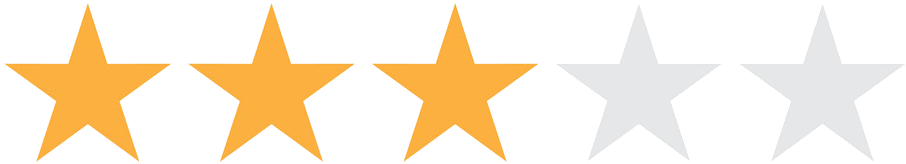
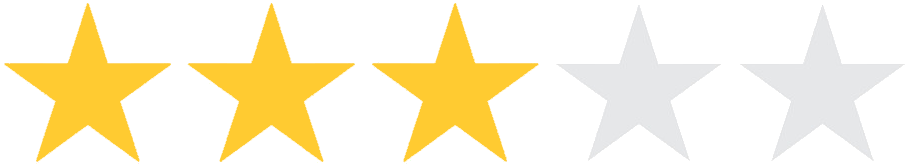
Add movie details page

Changed region(s): [[0.0, 0.0305, 0.5872, 0.9756]]

diff --git a/src/pages/movie-details/movie-details.js b/src/pages/movie-details/movie-details.js
@@ -1,0 +1,80 @@
+import React from "react";
+import "./movie-details.scss";
+import returnIcon from "../../shared/images/return-icon.png";
+import starIcon from "../../shared/images/star.png";
+import { Link } from "react-router-dom";
+import { HOME_ROUTE } from "../../shared/constants/routes";
+
+class MovieDetailsPage extends React.Component {
+  getMovieGenre(movieGenres) {
+    return movieGenres.map(genre => <div>{genre}</div>);
+  }
+
+  render() {
+    const MOVIE = JSON.parse(
+      '{"Title":"Raging Bull","Year":"1980","Rated":"R","Released":"19 Dec 1980","Runtime":"129 min","Genre":"Biography, Drama, Sport","Director":"Martin Scorsese","Writer":"Jake LaMotta (based on the book by), Joseph Carter (with), Peter Savage (with), Paul Schrader (screenplay), Mardik Martin (screenplay)","Actors":"Robert De Niro, Cathy Moriarty, Joe Pesci, Frank Vincent","Plot":"The life of boxer Jake LaMotta, whose violence and temper that led him to the top in the ring destroyed his life outside of it.","Language":"English","Country":"USA","Awards":"Won 2 Oscars. Another 22 wins & 26 nominations.","Poster":"https://m.media-amazon.com/images/M/MV5BYjRmODkzNDItMTNhNi00YjJlLTg0ZjAtODlhZTM0YzgzYThlXkEyXkFqcGdeQXVyNzQ1ODk3MTQ@._V1_SX300.jpg","Ratings":[{"Source":"Internet Movie Database","Value":"8.2/10"},{"Source":"Rotten Tomatoes","Value":"94%"},{"Source":"Metacritic","Value":"89/100"}],"Metascore":"89","imdbRating":"8.2","imdbVotes":"296,838","imdbID":"tt0081398","Type":"movie","DVD":"01 Aug 2000","BoxOffice":"N/A","Production":"United Artists","Website":"N/A","Response":"True"}'
+    );
+
+    const movieGenres = MOVIE.Genre.split(",");
+
+    return (
+      <div id="movie-details-page">
+        <div className="movie-details__header">
+          <Link to={HOME_ROUTE}>
+            <img src={returnIcon} alt="return icon" />
+          </Link>
+        </div>
+
+        <div className="movie-details__info">
+          <div className="movie-details__img">
+            <img src={MOVIE.Poster} alt={MOVIE.Title} />
+          </div>
+
+          <div className="movie-details__text">
+            <h2>{MOVIE.Title}</h2>
+
+            <div className="movie-details__text__IMDBRating">
+              <img src={starIcon} alt="star icon" />
+              <span className="movie-details__text--rating">
+                {MOVIE.imdbRating}
+              </span>
+              / 10
+            </div>
+
+            <div className="movie-details__text__genre">
+              {this.getMovieGenre(movieGenres)}
+            </div>
+
+            <p>
+              Année de sortie:
+              <span className="movie-details__text--bold">{MOVIE.Year}</span>
+              <br></br>
+              De:
+              <span className="movie-details__text--bold">
+                {MOVIE.Director}
+              </span>
+              <br></br>
+              Avec:
+              <span className="movie-details__text--bold">{MOVIE.Actors}</span>
+              <br></br>
+              Pays:
+              <span className="movie-details__text--bold">{MOVIE.Country}</span>
+              <br></br>
+              Durée:
+              <span className="movie-details__text--bold">{MOVIE.Runtime}</span>
+            </p>
+          </div>
+        </div>
+
+        <div className="movie-details__rating">Rate</div>
+
+        <div className="movie-details__synopsis">
+          <h2>Résumé</h2>
+          <p>{MOVIE.Plot}</p>
+        </div>
+      </div>
+    );
+  }
+}
+
+export default MovieDetailsPage;

diff --git a/src/pages/movie-details/movie-details.scss b/src/pages/movie-details/movie-details.scss
@@ -1,0 +1,95 @@
+@import "../../shared/style/variables.scss";
+
+#movie-details-page {
+  background: linear-gradient(
+    to right,
+    $dark-theme-background-gradient-start,
+    $dark-theme-background-gradient-end
+  );
+  padding: 20px;
+
+  h2 {
+    margin: 0;
+    color: white;
+    font-weight: 600;
+  }
+
+  .movie-details__header {
+    width: 100%;
+
+    img {
+      width: 20px;
+      height: 20px;
+
+      &:hover {
+        cursor: pointer;
+      }
+    }
+  }
+
+  .movie-details__info {
+    display: flex;
+    align-items: center;
+
+    .movie-details__img img {
+      width: 120px;
+    }
+
+    .movie-details__text {
+      padding: 20px 0 20px 20px;
+      color: $dark-theme-light-grey;
+      font-size: 13px;
+
+      &__IMDBRating {
+        color: $dark-theme-yellow;
+        img {
+          width: 13px;
+          height: 13px;
+          margin-right: 4px;
+        }
+      }
+
+      &__genre {
+        margin-top: 5px;
+
+        div {
+          display: inline-block;
+          height: 16px;
+          margin-bottom: 7px;
+          margin-right: 7px;
+          padding: 3px 10px;
+          border-radius: 5px;
+          background-color: $dark-theme-dark-grey;
+          color: $dark-theme-light-grey;
+          text-align: center;
+          font-size: 11px;
+          font-weight: 600;
+        }
+      }
+
+      p {
+        margin-top: 3px;
+      }
+
+      &--bold {
+        font-weight: 600;
+        margin-left: 5px;
+      }
+      &--rating {
+        font-weight: 600;
+        font-size: 17px;
+        margin-left: 5px;
+        margin-right: 5px;
+      }
+    }
+  }
+
+  .movie-details__synopsis {
+    color: #9099b1;
+
+    p {
+      margin-top: 5px;
+      font-size: 14px;
+    }
+  }
+}

diff --git a/src/pages/movies-watched/movies-watched.js b/src/pages/movies-watched/movies-watched.js
@@ -2,8 +2,10 @@ import React from "react";
 import "./movies-watched.scss";
 import Header from "../../components/header/header";
 import Footer from "../../components/footer/footer";
-import MovieViewed from "../../components/movie-rating/movie-rating";
+import MovieRating from "../../components/movie-rating/movie-rating";
 import SearchSuggestions from "../../components/search-suggestions/search-suggestions";
+import { MOVIE_DETAILS_ROUTE } from "../../shared/constants/routes";
+import { Link } from "react-router-dom";
 
 class MoviesWatchedPage extends React.Component {
   constructor(props) {
@@ -22,7 +24,9 @@ class MoviesWatchedPage extends React.Component {
     }
 
     const autocompleteSuggestions = this.state.searchSuggestions.map(movie => (
-      <SearchSuggestions movie={movie} key={movie.imdbID} />
+      <Link to={MOVIE_DETAILS_ROUTE + "/" + movie.imdbID}>
+        <SearchSuggestions movie={movie} key={movie.imdbID} />
+      </Link>
     ));
 
     return (
@@ -50,7 +54,7 @@ class MoviesWatchedPage extends React.Component {
     ];
 
     const moviesWatched = MOCKED_MOVIES_VIWED.map((movie, index) => (
-      <MovieViewed movie={movie} key={index} />
+      <MovieRating movie={movie} key={index} />
     ));
 
     return (

diff --git a/src/App.js b/src/App.js
@@ -1,15 +1,21 @@
 import React from "react";
 import "./App.scss";
+import { Route } from "react-router-dom";
 import MoviesWatchedPage from "./pages/movies-watched/movies-watched";
 import MovieToWatchPage from "./pages/movies-to-watch/movies-to-watch";
-import { Route } from "react-router-dom";
-import { HOME_ROUTE, MOVIES_TO_WATCH_ROUTE } from "./shared/constants/routes";
+import MovieDetailsPage from "./pages/movie-details/movie-details";
+import {
+  HOME_ROUTE,
+  MOVIES_TO_WATCH_ROUTE,
+  MOVIE_DETAILS_ROUTE
+} from "./shared/constants/routes";
 
 function App() {
   return (
     <div>
       <Route exact path={HOME_ROUTE} component={MoviesWatchedPage} />
       <Route path={MOVIES_TO_WATCH_ROUTE} component={MovieToWatchPage} />
+      <Route path={MOVIE_DETAILS_ROUTE} component={MovieDetailsPage} />
     </div>
   );
 }

diff --git a/src/pages/movies-watched/movies-watched.scss b/src/pages/movies-watched/movies-watched.scss
@@ -1,17 +1,21 @@
 @import "../../shared/style/variables.scss";
 
-body {
-  background-color: $dark-theme-dark-blue;
-}
-
 #movie-watched-page {
-  background-color: $dark-theme-dark-blue;
+  background: linear-gradient(
+    to right,
+    $dark-theme-background-gradient-start,
+    $dark-theme-background-gradient-end
+  );
 
   .search-suggestions-container {
     position: absolute;
     width: 100%;
     z-index: 2;
     background-color: white;
+
+    a {
+      text-decoration: none;
+    }
   }
 
   .movies-watched-container {

diff --git a/src/shared/style/variables.scss b/src/shared/style/variables.scss
@@ -1,9 +1,13 @@
+$dark-theme-background-gradient-start: #17213c;
+$dark-theme-background-gradient-end: #151522;
+
 $dark-theme-dark-blue: #212138;
 $dark-theme-medium-blue: #1e2747;
 $dark-theme-light-blue: #4c65a9;
-$dark-theme-dark-grey: #8b99a4;
-$dark-theme-medium-grey: #4f6b95;
-$dark-theme-light-grey: #ece9e4;
+$dark-theme-dark-grey: #313444;
+$dark-theme-medium-grey: #8b99a4;
+$dark-theme-light-grey: #c3c4c9;
 $dark-theme-orange: #c45e36;
+$dark-theme-yellow: #ffcb30;
 
 $header-height: 92px;

diff --git a/src/components/movie-rating/movie-rating.scss b/src/components/movie-rating/movie-rating.scss
@@ -43,8 +43,9 @@
       }
 
       &--bold {
-        font-weight: 800;
+        font-weight: 600;
         margin-left: 5px;
+        color: $dark-theme-light-grey;
       }
     }
 
@@ -69,7 +70,7 @@
 
       &--comment {
         font-size: 11px;
-        color: $dark-theme-medium-grey;
+        color: $dark-theme-light-grey;
       }
 
       .movie-watched__edition {

diff --git a/src/components/header/header.scss b/src/components/header/header.scss
@@ -7,7 +7,11 @@
   width: calc(100% - 20px);
   height: $header-height;
   padding: 10px 20px 0 20px;
-  background-color: $dark-theme-dark-blue;
+  background: linear-gradient(
+    to right,
+    $dark-theme-background-gradient-start,
+    $dark-theme-background-gradient-end
+  );
 
   &__title {
     display: block;

diff --git a/src/App.scss b/src/App.scss
@@ -1,3 +1,13 @@
+@import "./shared/style/variables.scss";
+
+body {
+  background: linear-gradient(
+    to right,
+    $dark-theme-background-gradient-start,
+    $dark-theme-background-gradient-end
+  );
+}
+
 .App {
   text-align: center;
 }

diff --git a/src/shared/constants/routes.js b/src/shared/constants/routes.js
@@ -1,2 +1,3 @@
 export const HOME_ROUTE = "/";
 export const MOVIES_TO_WATCH_ROUTE = "/movies-to-watch";
+export const MOVIE_DETAILS_ROUTE = "/movie";
